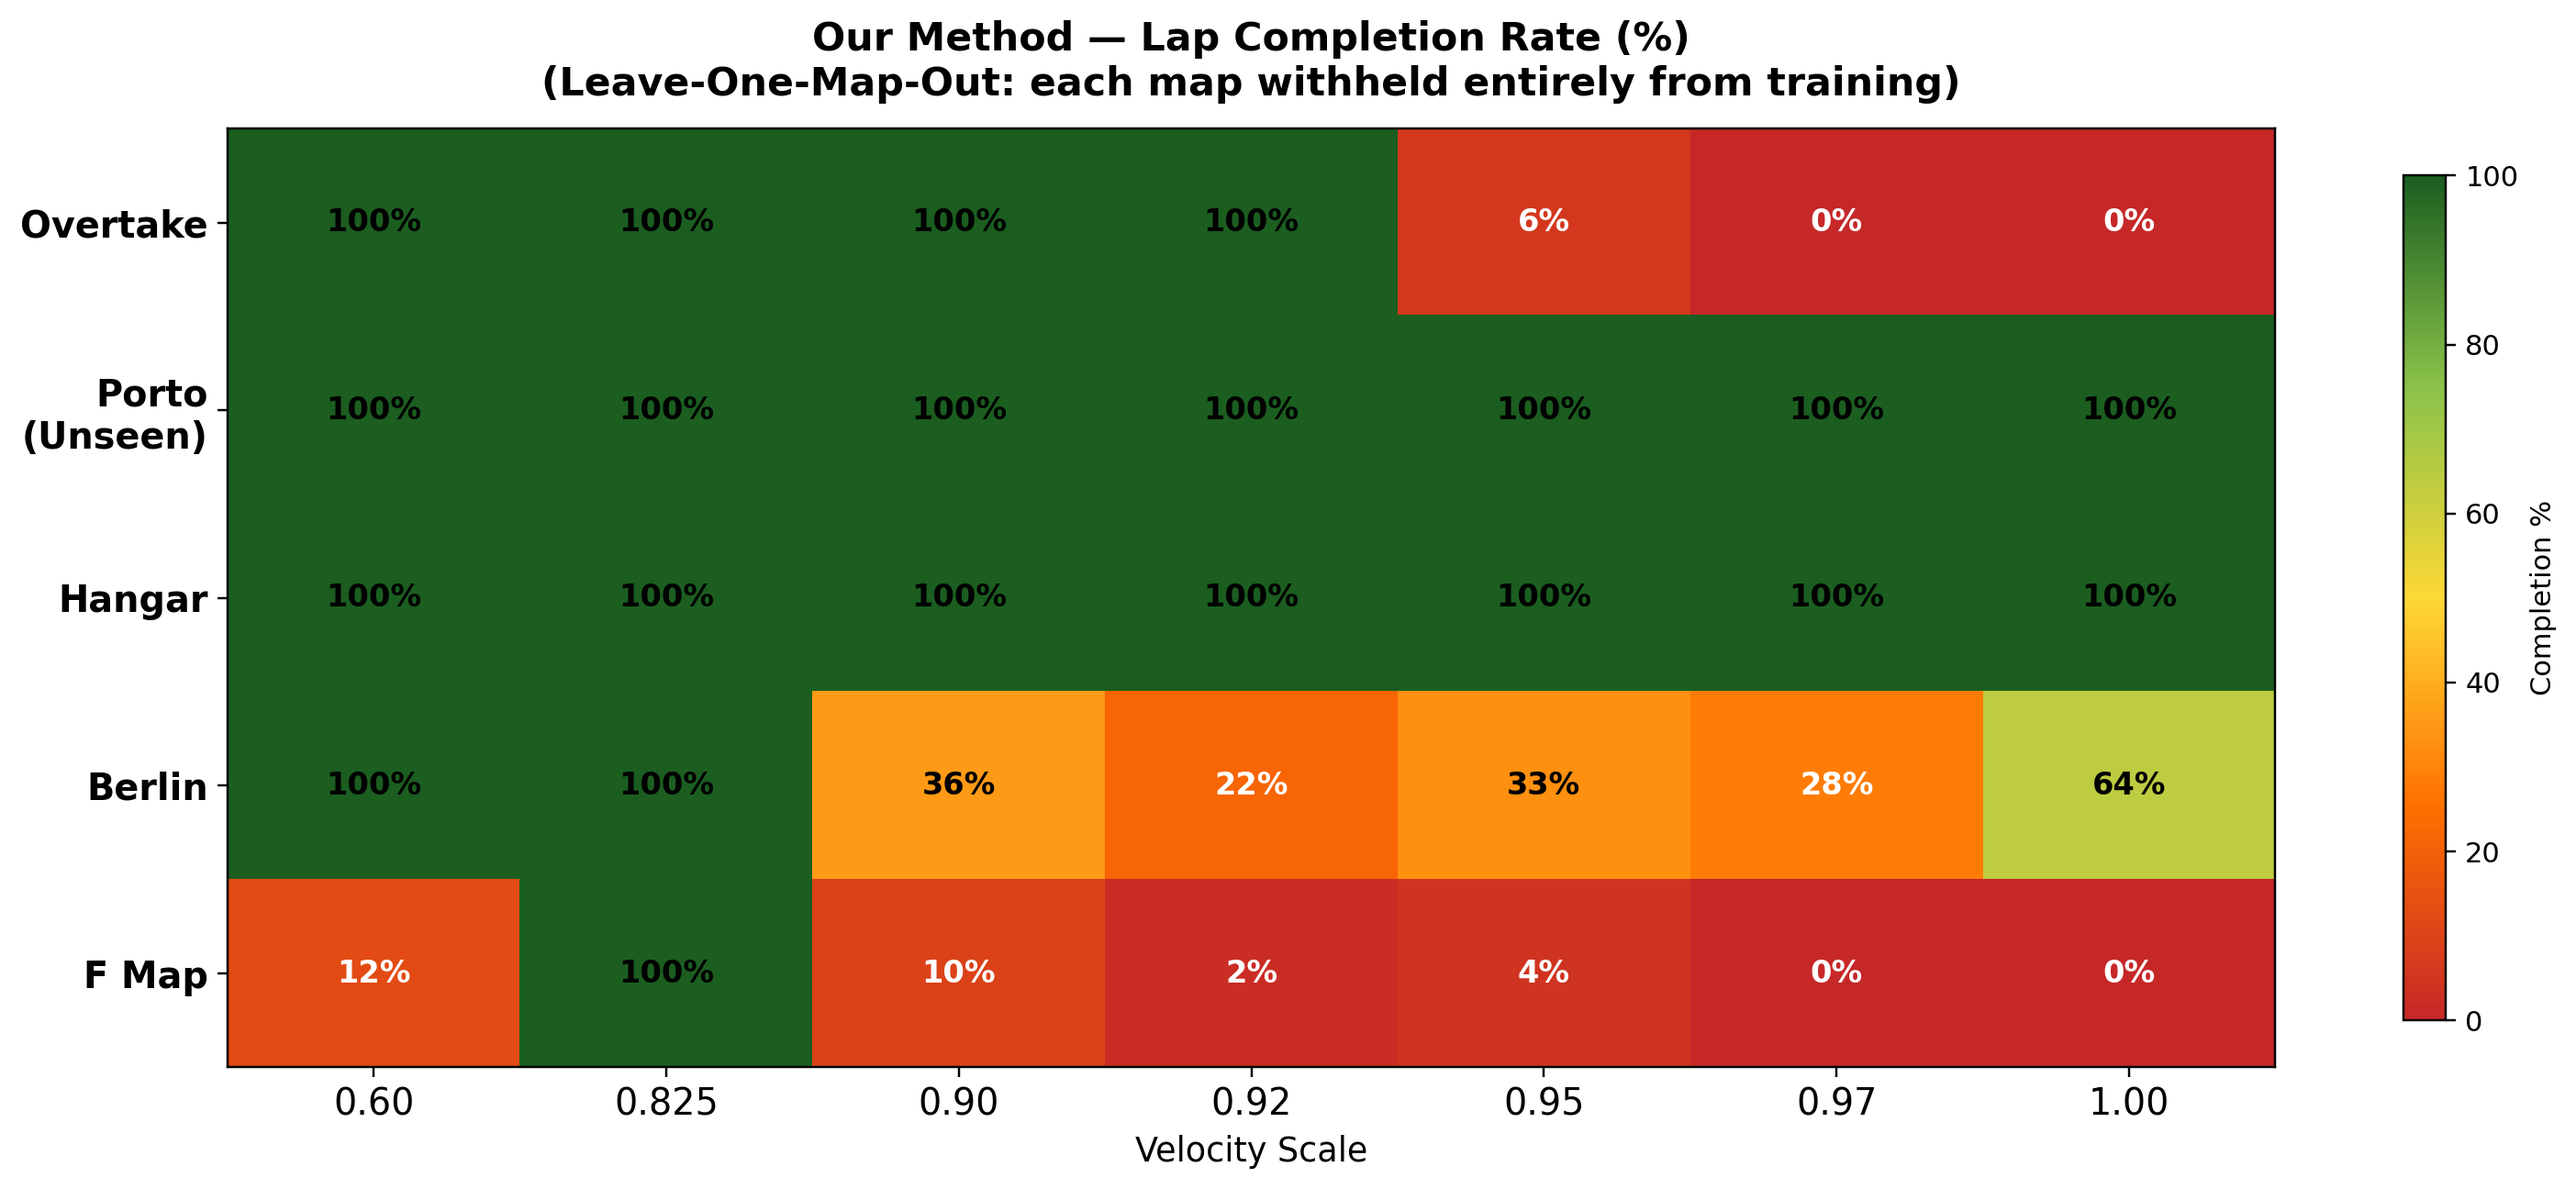
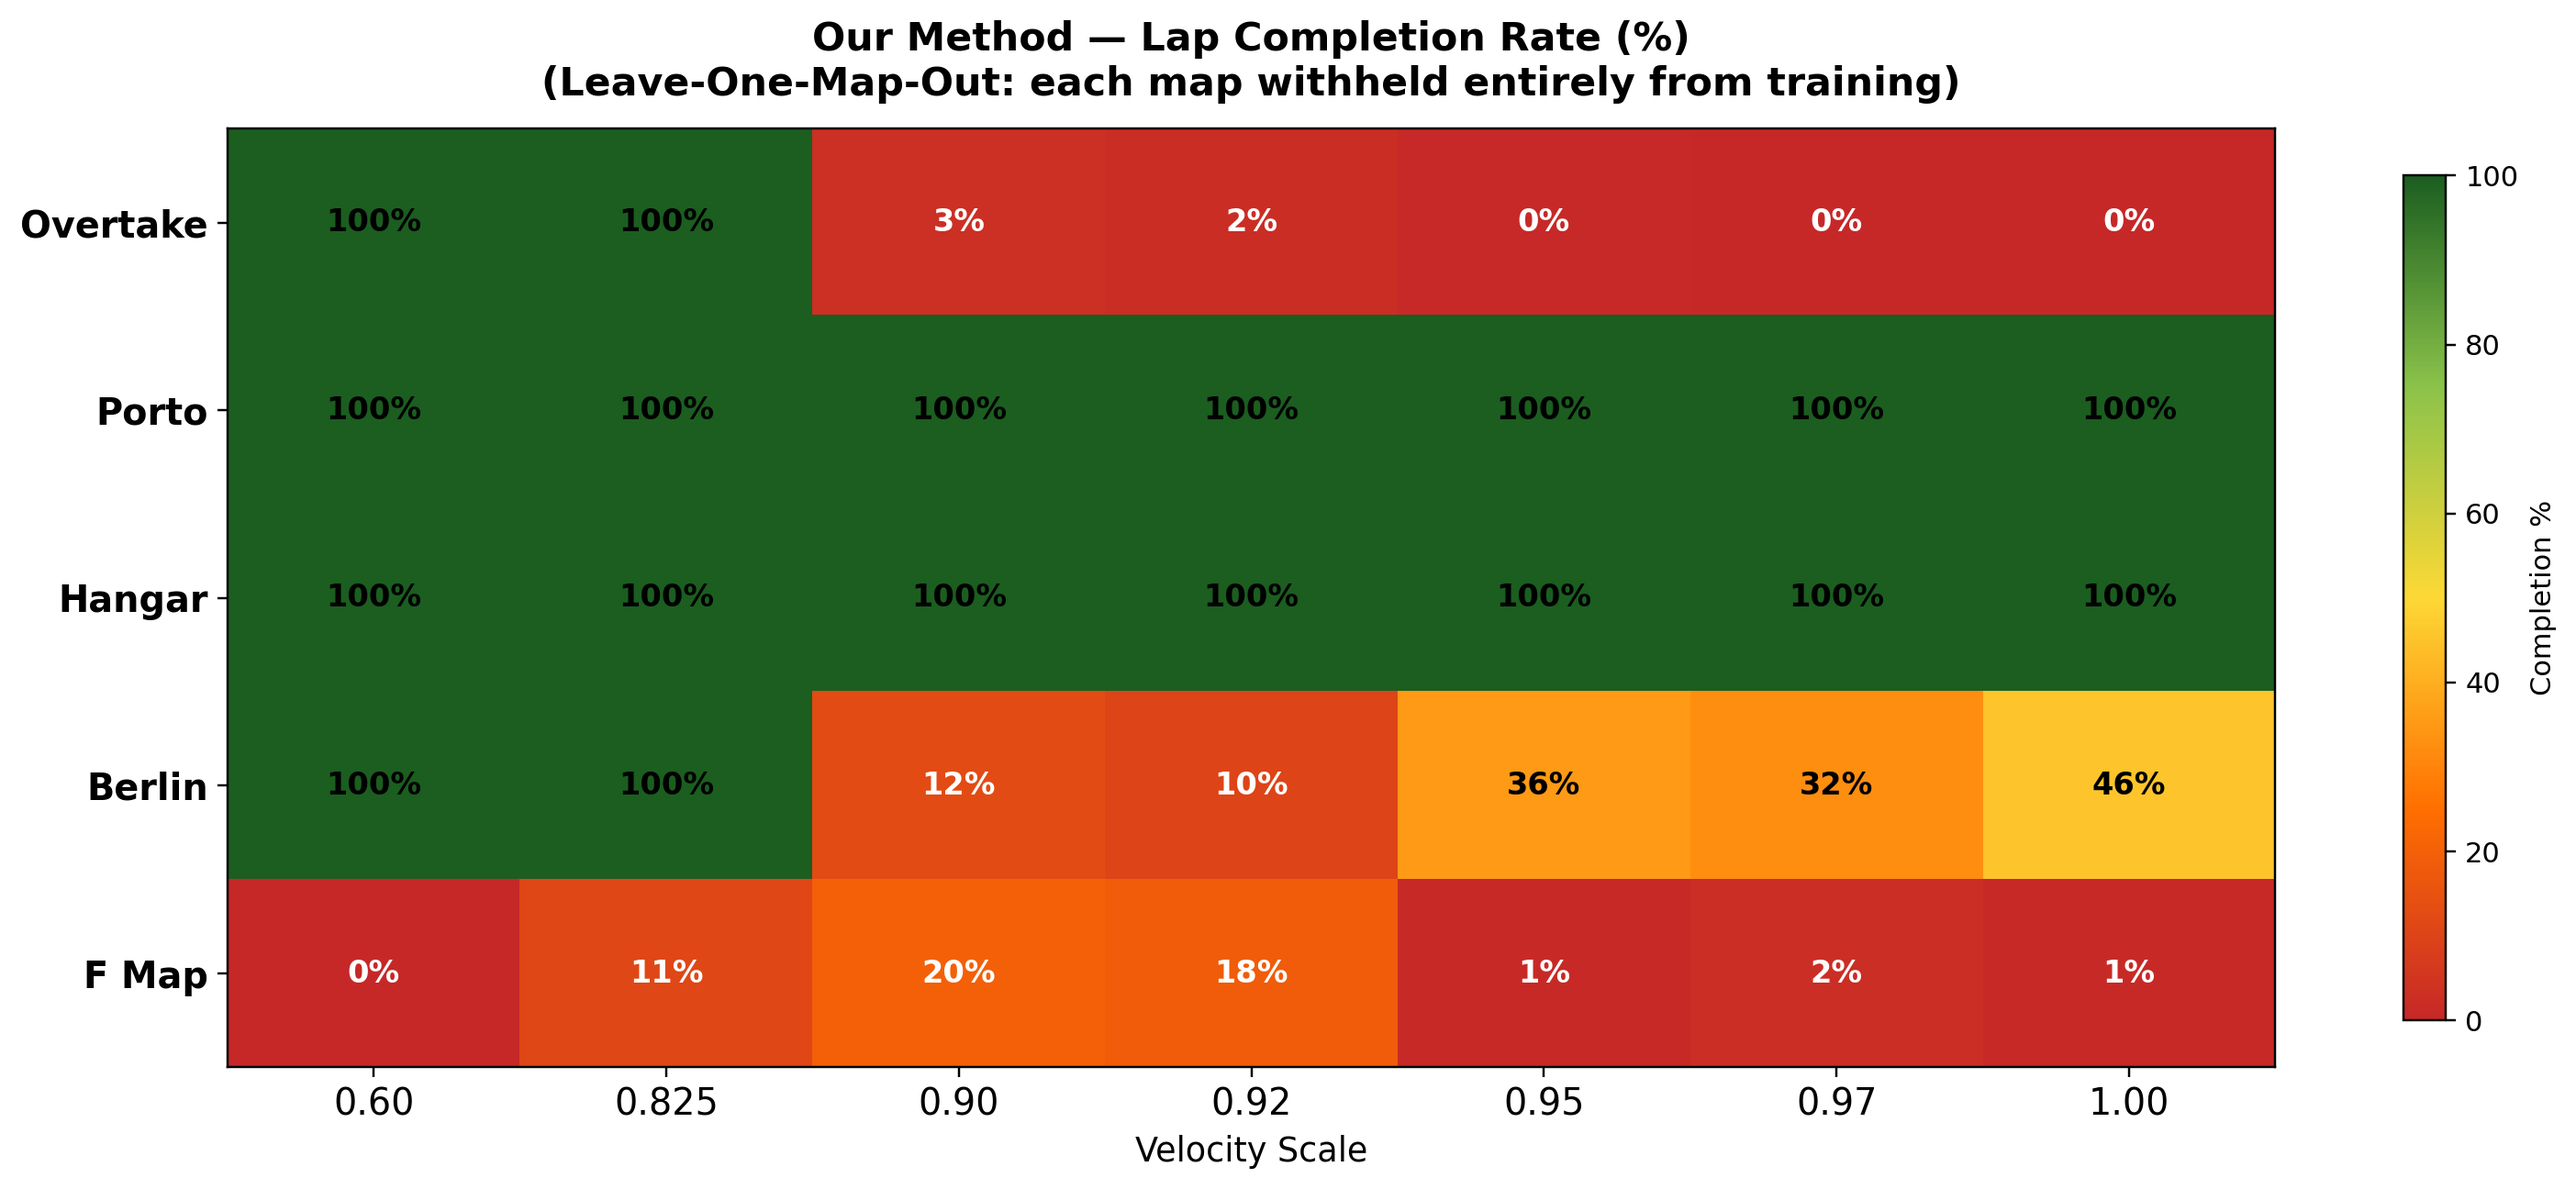
final commit

diff --git a/src/ML_controller/models/model_method2V2.py b/src/ML_controller/models/model_method2V2.py
@@ -36,12 +36,11 @@ from sklearn.model_selection import train_test_split
 from sklearn.preprocessing import StandardScaler
 import joblib
 
-# ── Paths ─────────────────────────────────────────────────────────────────────
 DATA_DIR    = "/home/sanjeev/f110_ws/src/Data/data_files"
 MODELS_DIR  = "/home/sanjeev/f110_ws/src/ML_controller/models_path"
 SCALER_DIR  = "/home/sanjeev/f110_ws/src/ML_controller"
 
-# ── Hyperparameters (V2 — as reported in paper) ───────────────────────────────
+# Hyperparameters as reported in paper
 LR                    = 5e-4
 WEIGHT_DECAY          = 1e-4
 BATCH_SIZE            = 128
@@ -51,13 +50,9 @@ EARLY_STOP_PATIENCE   = 300
 DEGRADATION_THRESHOLD = 0.30
 DIVERGENCE_THRESHOLD  = 3.0
 
-# ── Leave-one-out map list ────────────────────────────────────────────────────
 HOLDOUT_MAPS = ["overtake", "porto", "berlin", "hangar", "f"]
 
 
-# =============================================================================
-# MODEL ARCHITECTURE  (5 → 64 → 64 → 32 → 1, reported in paper)
-# =============================================================================
 def build_model(activation='relu'):
     """
     Builds the V2 nn.Sequential model.
@@ -92,9 +87,6 @@ def build_model(activation='relu'):
     )
 
 
-# =============================================================================
-# TRAINING LOOP  (shared by both modes)
-# =============================================================================
 def train_model(model, X_train, y_train, X_val, y_val, label=''):
     """
     Trains model with V2 hyperparameters and three stopping conditions:
@@ -120,7 +112,6 @@ def train_model(model, X_train, y_train, X_val, y_val, label=''):
     train_history, val_history = [], []
 
     for epoch in range(EPOCHS):
-        # ── Train ──
         model.train()
         perm       = torch.randperm(X_train.size(0))
         epoch_loss = 0.0
@@ -134,7 +125,6 @@ def train_model(model, X_train, y_train, X_val, y_val, label=''):
             epoch_loss += loss.item() * len(idx)
         train_loss = epoch_loss / X_train.size(0)
 
-        # ── Validate ──
         model.eval()
         with torch.no_grad():
             val_loss = criterion(model(X_val), y_val).item()
@@ -151,7 +141,6 @@ def train_model(model, X_train, y_train, X_val, y_val, label=''):
         else:
             epochs_no_improve += 1
 
-        # ── Stopping conditions ──
         if epochs_no_improve >= EARLY_STOP_PATIENCE:
             stop_reason = f"Early stopping — no improvement for {EARLY_STOP_PATIENCE} epochs"
             print(f"\n  STOP: {stop_reason}")
@@ -181,10 +170,6 @@ def train_model(model, X_train, y_train, X_val, y_val, label=''):
     return train_history, val_history, best_val_loss, best_epoch, stop_reason
 
 
-# =============================================================================
-# MODE 1: ACTIVATION COMPARISON
-# Trains all 5 activations on the full multi-map dataset
-# =============================================================================
 def activation_comparison_mode():
     print("Loading full dataset:", f"{DATA_DIR}/method2V1V2_traintest_porto.csv")
     df = pd.read_csv(f"{DATA_DIR}/method2V1V2_traintest_porto.csv")
@@ -228,7 +213,6 @@ def activation_comparison_mode():
                           'rmse': np.sqrt(best_loss)}
         histories[act] = {'train': train_h, 'val': val_h}
 
-    # ── Comparison table ──
     best_act = min(results, key=lambda x: results[x]['best_val_loss'])
     print(f"\n{'='*80}\n  ACTIVATION COMPARISON\n{'='*80}")
     print(f"{'Activation':<15} {'Val Loss':>10} {'RMSE':>10} {'Best Ep':>10}  Stop Reason")
@@ -243,7 +227,6 @@ def activation_comparison_mode():
     print(f"  Model to use    : ml_model_{best_act}_best.pth")
     print(f"  Scaler to use   : scaler_holdout_porto.save")
 
-    # ── Training curves ──
     colors = {'relu': '#2196F3', 'leaky_relu': '#FF5722', 'elu': '#4CAF50',
               'tanh': '#9C27B0', 'selu': '#FF9800'}
     fig, axes = plt.subplots(2, 3, figsize=(18, 10))
@@ -305,10 +288,6 @@ def activation_comparison_mode():
     print("Plot saved.")
 
 
-# =============================================================================
-# MODE 2: LEAVE-ONE-MAP-OUT
-# Trains V2 ReLU model for each held-out map
-# =============================================================================
 def leave_one_out_mode(maps=None):
     if maps is None:
         maps = HOLDOUT_MAPS
@@ -361,9 +340,6 @@ def leave_one_out_mode(maps=None):
               f"MSE={r['val_mse']:.6f}  RMSE={r['rmse']:.4f}  {r['stop']}")
 
 
-# =============================================================================
-# ENTRY POINT
-# =============================================================================
 def main():
     parser = argparse.ArgumentParser(description='Train Our Method 2 V2')
     parser.add_argument('--mode', choices=['activation', 'leave_one_out'],

diff --git a/src/Data/execution_files/Researchpaper_charts.py b/src/Data/execution_files/Researchpaper_charts.py
@@ -12,8 +12,7 @@ os.makedirs(PAPER_DIR, exist_ok=True)
 MAP_C = '#1565C0'
 ML_C  = '#E65100'
 
-maps_short = ['Overtake', 'Porto\n(Unseen)', 'Hangar', 'Berlin', 'F Map']
-maps_plain = ['Overtake', 'Porto',           'Hangar', 'Berlin', 'F Map']
+maps_plain = ['Overtake', 'Porto', 'Hangar', 'Berlin', 'F Map']
 speeds     = ['0.60', '0.825', '0.90', '0.92', '0.95', '0.97', '1.00']
 
 cmap = LinearSegmentedColormap.from_list('rc',
@@ -30,18 +29,18 @@ map_comp = [
 
 # Our Method — leave-one-map-out (each row = that map held out from training)
 ml_comp = [
-    [100, 100, 100, 100,  6.0, 0,   0],          # Overtake (unseen)
-    [100, 100, 100, 100, 100, 100, 100],          # Porto (unseen)
-    [100, 100, 100, 100, 100, 100, 100],          # Hangar (unseen)
-    [100, 100,  35.5, 21.5, 33, 28.5, 64],       # Berlin (unseen)
-    [12.5, 100,  9.5,  2,   4.5, 0,   0],        # F Map (unseen)
+    [100, 100,  3.0,  2.0,  0.5,  0,    0  ],   # Overtake (unseen)
+    [100, 100, 100,  100,  100,  100,  100  ],   # Porto (unseen)
+    [100, 100, 100,  100,  100,  100,  100  ],   # Hangar (unseen)
+    [100, 100, 12.5, 10.5, 35.5, 32.5, 45.5],   # Berlin (unseen)
+    [  0, 11.0, 20.0, 18.5,  1.0,  2.5,  1.0],  # F Map (unseen)
 ]
 
 map_le    = [0.069, 0.060, 0.071, 0.308, 0.298]
-ml_le     = [0.074, 0.067, 0.091, 0.239, 0.237]
+ml_le     = [0.184, 0.067, 0.094, 0.178, 0.179]
 
 map_limit = [0.92, 0.90, 0.92, 0.825, 0.60]
-ml_limit  = [0.90, 1.00, 1.00, 0.825, 0.825]
+ml_limit  = [0.825, 1.00, 1.00, 0.825, None]   # None = NN never ≥50% on F Map
 
 # V1 per-run data on Porto at 0.825 (10 runs)
 runs     = list(range(1, 11))
@@ -96,11 +95,11 @@ data = np.array(map_comp)
 im = ax.imshow(data, cmap=cmap, aspect='auto', vmin=0, vmax=100)
 ax.set_xticks(range(len(speeds)))
 ax.set_xticklabels(speeds, fontsize=13)
-ax.set_yticks(range(len(maps_short)))
-ax.set_yticklabels(maps_short, fontsize=13, fontweight='bold')
+ax.set_yticks(range(len(maps_plain)))
+ax.set_yticklabels(maps_plain, fontsize=13, fontweight='bold')
 ax.set_title('MAP Controller — Lap Completion Rate (%)', fontsize=14, fontweight='bold', pad=12)
 ax.set_xlabel('Velocity Scale', fontsize=12)
-for i in range(len(maps_short)):
+for i in range(len(maps_plain)):
     for j in range(len(speeds)):
         val = data[i, j]
         ax.text(j, i, f'{val:.0f}%', ha='center', va='center',
@@ -117,12 +116,12 @@ data = np.array(ml_comp)
 im = ax.imshow(data, cmap=cmap, aspect='auto', vmin=0, vmax=100)
 ax.set_xticks(range(len(speeds)))
 ax.set_xticklabels(speeds, fontsize=13)
-ax.set_yticks(range(len(maps_short)))
-ax.set_yticklabels(maps_short, fontsize=13, fontweight='bold')
+ax.set_yticks(range(len(maps_plain)))
+ax.set_yticklabels(maps_plain, fontsize=13, fontweight='bold')
 ax.set_title('Our Method — Lap Completion Rate (%)\n(Leave-One-Map-Out: each map withheld entirely from training)',
              fontsize=14, fontweight='bold', pad=12)
 ax.set_xlabel('Velocity Scale', fontsize=12)
-for i in range(len(maps_short)):
+for i in range(len(maps_plain)):
     for j in range(len(speeds)):
         val = data[i, j]
         ax.text(j, i, f'{val:.0f}%', ha='center', va='center',
@@ -158,17 +157,23 @@ save('fig8_lateral_error.png')
 
 
 # Fig 9 — max stable speed bar chart
+ml_limit_plot = [v if v is not None else 0 for v in ml_limit]
+
 fig, ax = plt.subplots(figsize=(12, 6))
 fig.patch.set_facecolor('white')
-b3 = ax.bar(x - w/2, map_limit, w, label='MAP',                       color=MAP_C, edgecolor='black', alpha=0.85)
-b4 = ax.bar(x + w/2, ml_limit,  w, label='Our Method (Leave-One-Out)', color=ML_C,  edgecolor='black', alpha=0.85)
+b3 = ax.bar(x - w/2, map_limit,     w, label='MAP',                       color=MAP_C, edgecolor='black', alpha=0.85)
+b4 = ax.bar(x + w/2, ml_limit_plot, w, label='Our Method (Leave-One-Out)', color=ML_C,  edgecolor='black', alpha=0.85)
 for bar, val in zip(b3, map_limit):
     ax.text(bar.get_x() + bar.get_width()/2, bar.get_height() + 0.008,
             f'{val}', ha='center', va='bottom', fontsize=11, fontweight='bold', color=MAP_C)
 for bar, val, mv in zip(b4, ml_limit, map_limit):
-    ax.text(bar.get_x() + bar.get_width()/2, bar.get_height() + 0.008,
-            f'{val}', ha='center', va='bottom', fontsize=11, fontweight='bold', color=ML_C)
-    if val > mv:
+    if val is None:
+        ax.text(bar.get_x() + bar.get_width()/2, 0.515,
+                'N/A', ha='center', va='bottom', fontsize=11, fontweight='bold', color=ML_C)
+    else:
+        ax.text(bar.get_x() + bar.get_width()/2, bar.get_height() + 0.008,
+                f'{val}', ha='center', va='bottom', fontsize=11, fontweight='bold', color=ML_C)
+    if val is not None and val > mv:
         ax.annotate('ML wins',
                     xy=(bar.get_x() + bar.get_width()/2, val + 0.04),
                     fontsize=9, ha='center', color='#2E7D32', fontweight='bold',

diff --git a/src/map_controller/src/ML_controller_2.py b/src/map_controller/src/ML_controller_2.py
@@ -23,10 +23,10 @@ class ClassicalMLController:
         self.LOOKAHEAD = 10
         self.velocity_scale = 0.825
 
-        # Switch model_path and load method to change model:
-        #   RF / XGBoost  → joblib.load  or  torch.load(path, weights_only=False)
-        #   SVM / GP      → joblib.load
-        model_path = "/home/sanjeev/f110_ws/src/ML_controller/models_path/model_gp.pth"
+        # To switch model: change model_path and reload (all use joblib.load)
+        #   XGBoost → model_xgboost.pth  |  RF → model_random_forest.pth
+        #   SVM     → model_svm.pth      |  GP → model_gp.pth (192 MB, local only)
+        model_path = "/home/sanjeev/f110_ws/src/ML_controller/models_path/model_xgboost.pth"
         rospy.loginfo("Loading model...")
         self.model = joblib.load(model_path)
         rospy.loginfo("Model loaded")

diff --git a/src/map_controller/src/ML_controller.py b/src/map_controller/src/ML_controller.py
@@ -34,7 +34,7 @@ class MLController:
         )
 
         model_path = "/home/sanjeev/f110_ws/src/ML_controller/models_path/model_method2V2_holdout_overtake.pth"
-        self.model.load_state_dict(torch.load(model_path))
+        self.model.load_state_dict(torch.load(model_path, weights_only=True))
         self.model.eval()  # disables dropout at inference time
 
         scaler_path = "/home/sanjeev/f110_ws/src/ML_controller/scaler_holdout_overtake.save"
